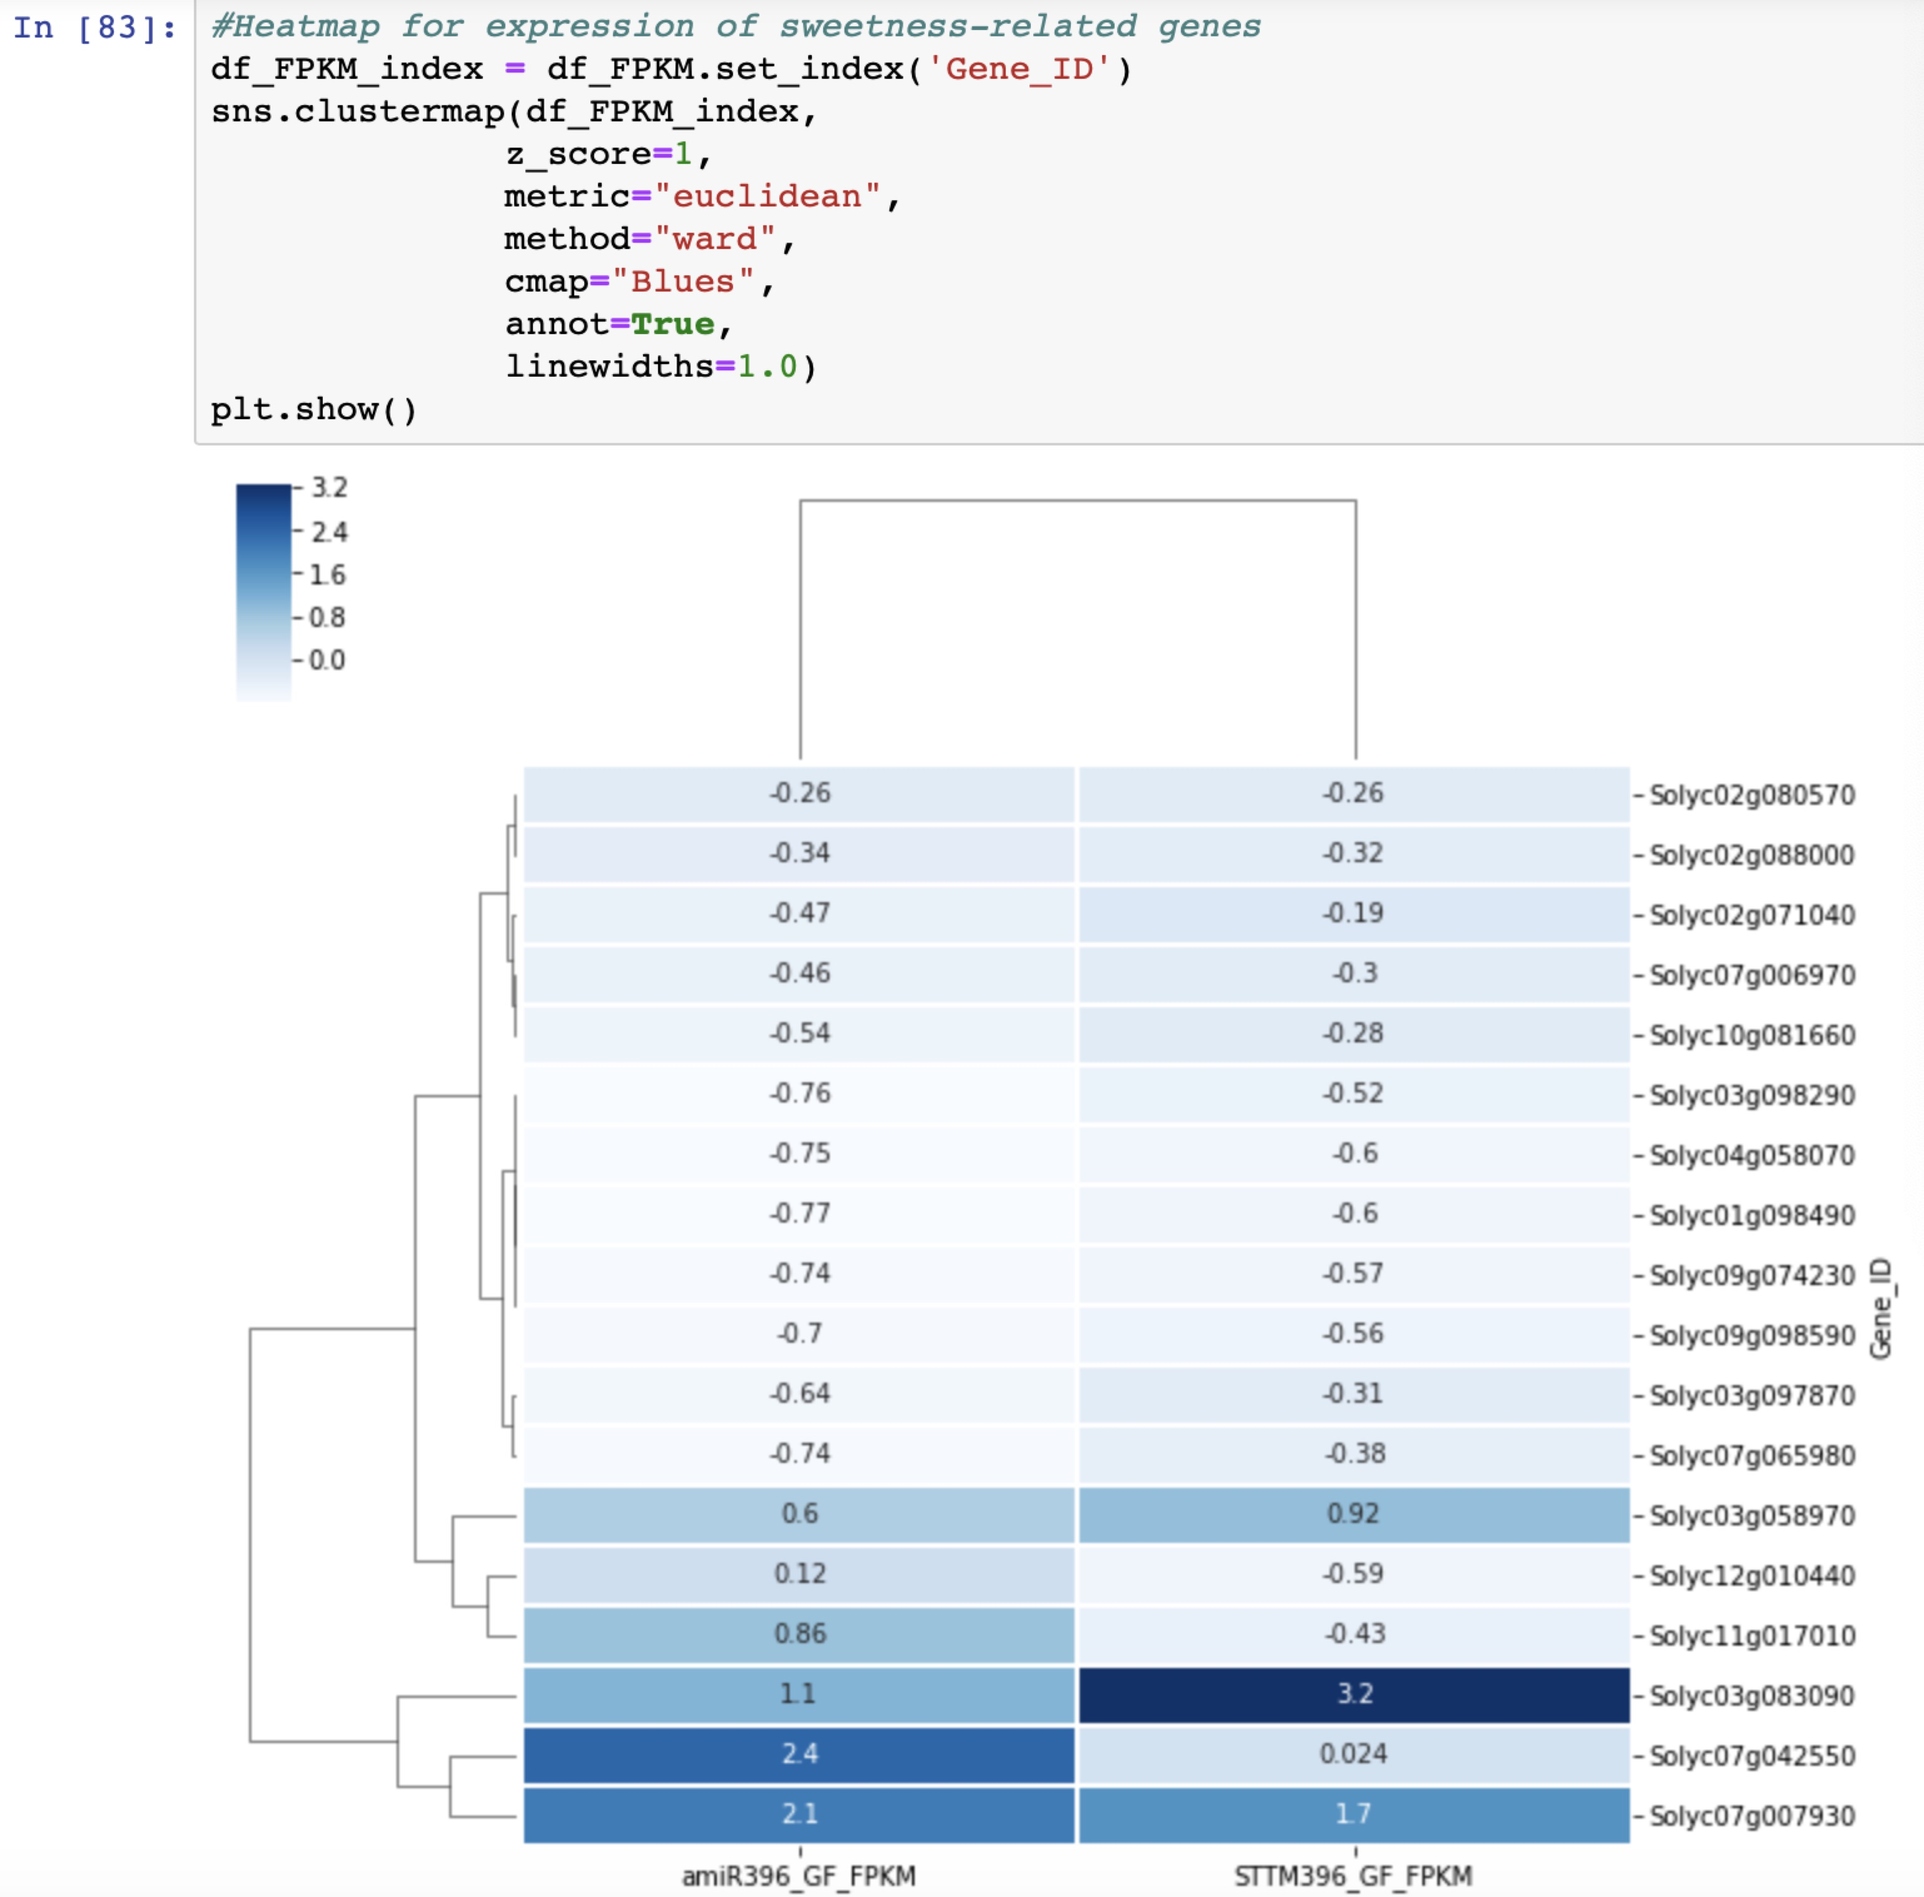
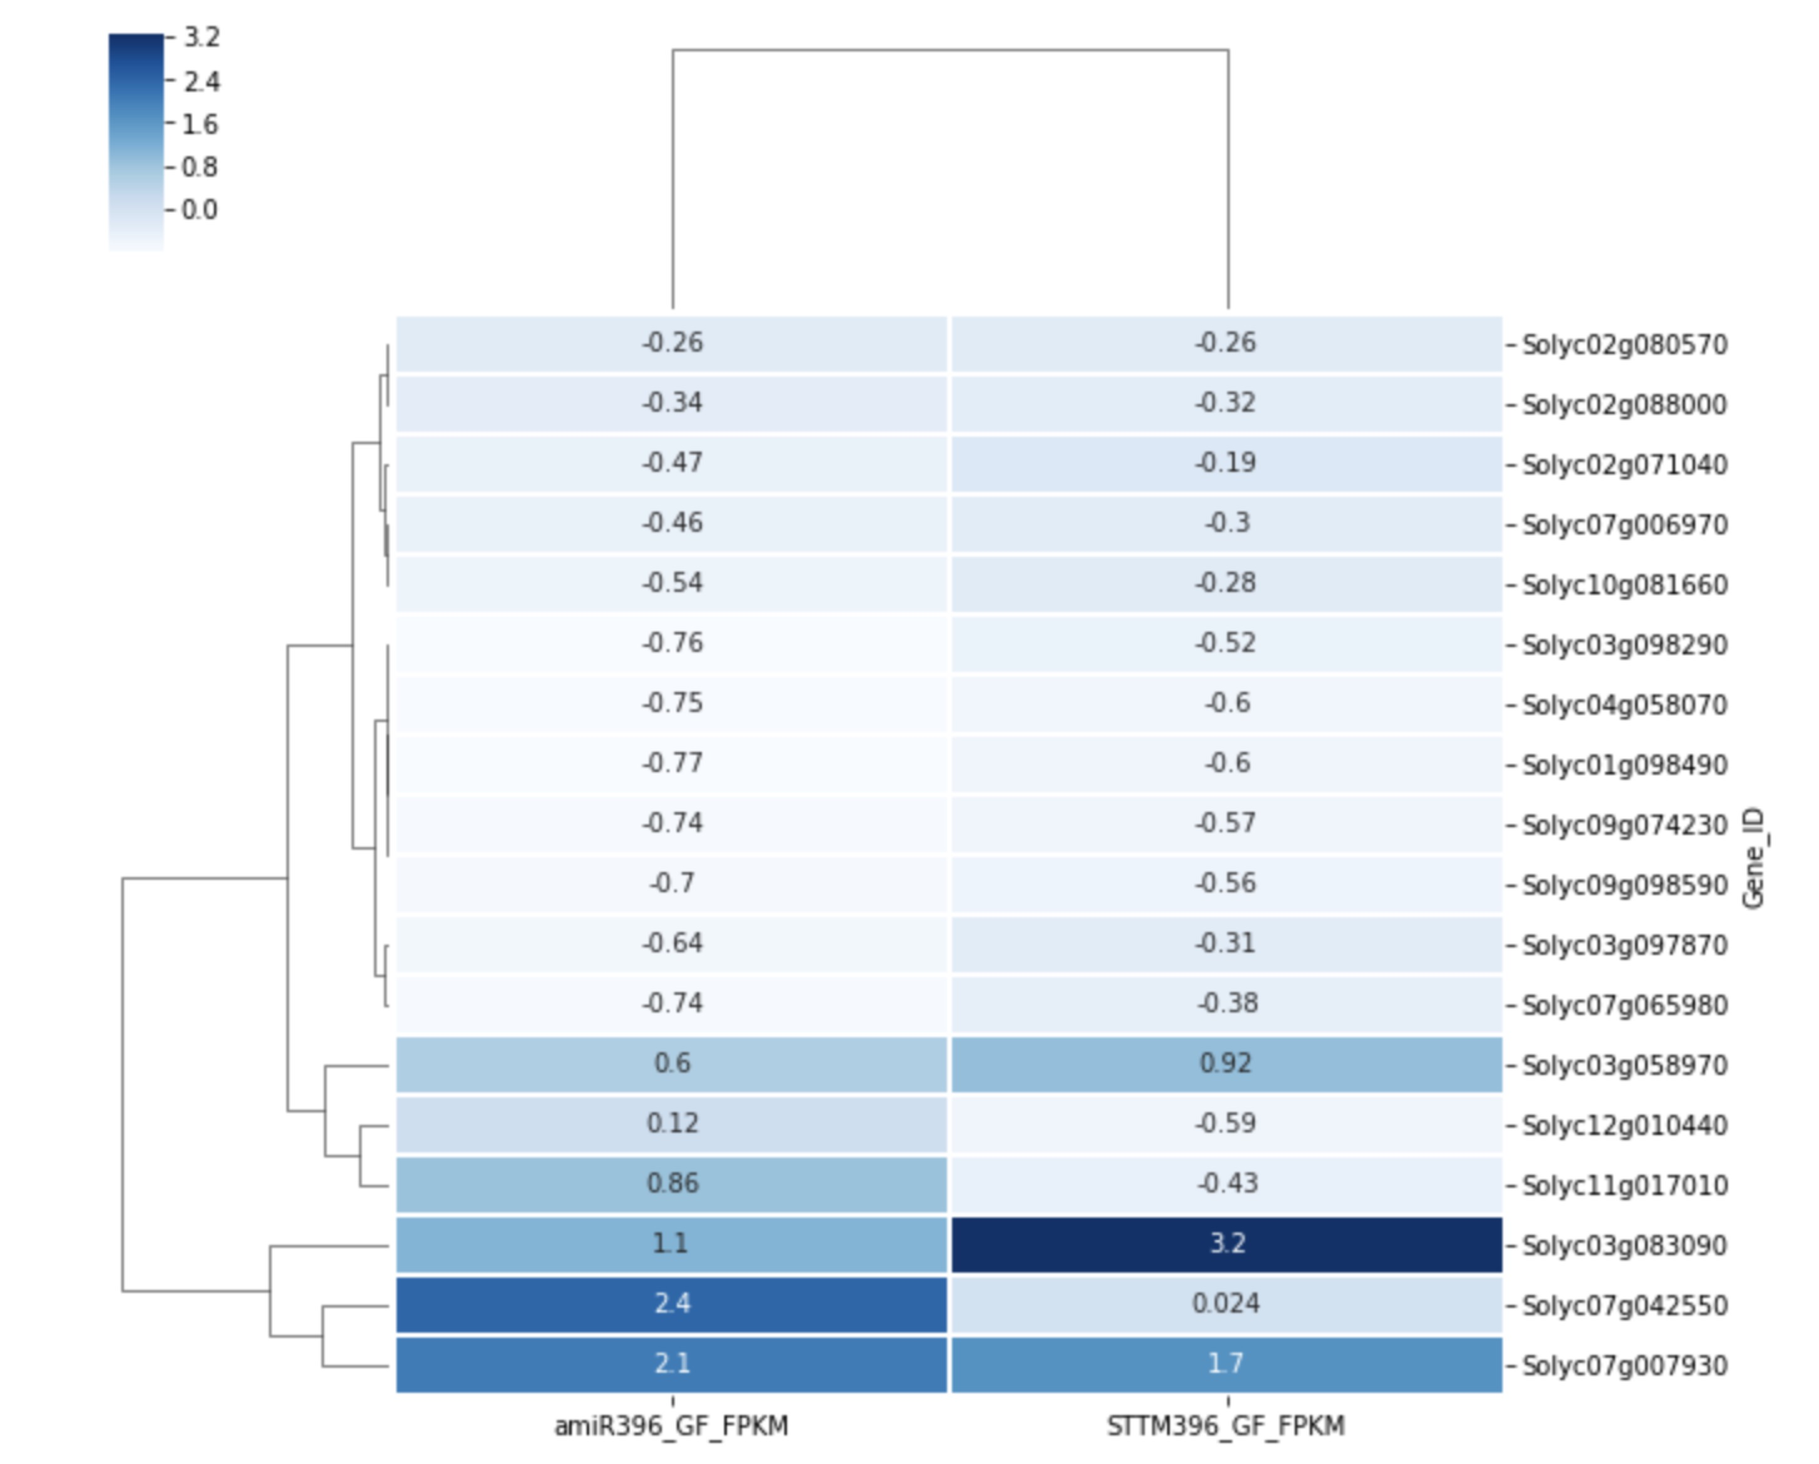
Presentation

diff --git a/pandoc.py b/pandoc.py
@@ -7,28 +7,28 @@ def write_file(filename, contents):
 
 
 # With an input file: pypandoc will infer the input format from the filename
-output = pypandoc.convert_file('2018-09-27/about.md', to='rst')
-write_file('2018-09-27/about.rst', output)
+output = pypandoc.convert_file('Presentation_for_BioF309.md'', to='rst')
+write_file('Presentation_for_BioF309.rst'', output)
 
 # You can make a slidy HTML slide deck
 slides_HP = pypandoc.convert_file('Presentation_for_BioF309.md', to='slidy', extra_args=['-s'])
 
 # And specify style with a css file, e.g. https://github.com/alblaine/countess
-slides = pypandoc.convert_file('2018-09-27/slides.md', to='slidy', extra_args=['-s', '--css=style.css'])
+slides_HP = pypandoc.convert_file('Presentation_for_BioF309.md', to='slidy', extra_args=['-s', '--css=style.css'])
 
 # Another option is to make a dzslides HTML slide deck
-slides = pypandoc.convert_file('2018-09-27/slides.md', to='dzslides', extra_args=['-s'])
+slides_HP = pypandoc.convert_file('Presentation_for_BioF309.md', to='dzslides', extra_args=['-s'])
 
 # And now with a css style: https://gist.github.com/bjin/2264634
-slides = pypandoc.convert_file('2018-09-27/slides.md', to='dzslides', extra_args=['-s', '--css=slide.css'])
+slides_HP = pypandoc.convert_file('Presentation_for_BioF309.md', to='dzslides', extra_args=['-s', '--css=slide.css'])
 
 # You can also make a revealjs HTML slide deck
-slides = pypandoc.convert_file('2018-09-27/slides.md', to='revealjs', extra_args=['-s', '-V', 'revealjs-url=http://lab.hakim.se/reveal-js'])
+slides_HP = pypandoc.convert_file('Presentation_for_BioF309.md', to='revealjs', extra_args=['-s', '-V', 'revealjs-url=http://lab.hakim.se/reveal-js'])
 
 # Try the sky revealjs theme
-slides = pypandoc.convert_file('2018-09-27/slides.md', to='revealjs', extra_args=['-s', '-V', 'revealjs-url=http://lab.hakim.se/reveal-js', '-V', 'theme=sky'])
+slides_HP = pypandoc.convert_file('Presentation_for_BioF309.md', to='revealjs', extra_args=['-s', '-V', 'revealjs-url=http://lab.hakim.se/reveal-js', '-V', 'theme=sky'])
 
 # Try the moon revealjs theme
-slides = pypandoc.convert_file('2018-09-27/slides.md', to='revealjs', extra_args=['-s', '-V', 'revealjs-url=http://lab.hakim.se/reveal-js', '-V', 'theme=moon'])
+slides_HP = pypandoc.convert_file('Presentation_for_BioF309.md', to='revealjs', extra_args=['-s', '-V', 'revealjs-url=http://lab.hakim.se/reveal-js', '-V', 'theme=moon'])
 
-write_file('slides_HP.html', slides_HP)
+write_file('Presentation_HP.html', slides_HP)

diff --git a/Presentation_for_BioF309.md b/Presentation_for_BioF309.md
@@ -2,14 +2,14 @@
 
 
 
-# Extract useful data from RNA-seq results in WT and transgenic tomato fruits
+#### Extract useful data from RNA-seq results in WT and transgenic tomato fruits
 
               
               
-              Haiping Liu Ph.D
+                             Haiping Liu Ph.D
 
 
-## Introduction
+#### Introduction
 - Material
 
 RNA-seq results from amiR396 (miR396 overexpressed) and STTM396 (miR396 being silenced) tomato fruits
@@ -19,7 +19,7 @@ RNA-seq results from amiR396 (miR396 overexpressed) and STTM396 (miR396 being si
 Visualization of RNA-seq data, especially extract differentially expressed genes I am interested in.
 
 
-## Overview
+#### Overview
 
 1. Import CVS file
 2. Evaluation the quality of RNA-seq results (histogram)
@@ -27,7 +27,7 @@ Visualization of RNA-seq data, especially extract differentially expressed genes
 4. Display genes with annotation containing targeted words
 
 
-## Load the libraries and read CSV file
+#### Load the libraries and read CSV file
 
 ```
 #load the libraries
@@ -38,57 +38,77 @@ import pandas as pd
 import numpy as np
 
 #Read CVS file form local
-df = pd.read_csv('/Users/haipingliu/Desktop/BiOF309/Final_project/DEG_ anno.csv')
+df = pd.read_csv('/Users/haipingliu/Desktop/BiOF309/Final_project/
+DEG_anno.csv')
 ```
 
-##Display how many genes are differentially expressed
+#### Display how many genes are differentially expressed
 
 <img src="image\gene_N_columns.png" width="1200">
 
-## Display how many genes have fold change above 2
+#### Display how many genes have fold change above 2
+<img src="image\N_Fold2.png" width="1000">
+<img src="image\Head_Fold2.png" width="600">
 
-<img src="image\N_Fold2.png" width="1200">
-<img src="image\Head_Fold2.png" width="1200">
-
-##Display up-regulated genes in STTM396 fruits
+#### Display up-regulated genes in STTM396 fruits
 
 <img src="image\OE_N.png" width="1200">
 <img src="image\OE_head.png" width="1200">
 
-##Display down-regulated genes in STTM396 fruits
+#### Display down-regulated genes in STTM396 fruits
 <img src="image\D_N.png" width="1200">
 <img src="image\D_head.png" width="1200">
 
-##RNA-seq result follows standard normal distribution (histogram)
+#### RNA-seq result follows standard normal distribution (histogram)
+<img src="image\his_distribution.png" width="700">
 
-<img src="image\his_distribution.png" width="1200">
+#### Extract interested genes related with sweetness of fruits
+- Sugar
+<img src="image\Sugar.png" width="1300">
 
-##Extract interested genes related with sweetness of fruits
+#### Starch
+<img src="image\Starch.png" width="1300">
 
-<img src="image\Sugar.png" width="1200">
-<img src="image\Starch.png" width="1200">
+#### Sucrose
 <img src="image\Sucrose.png" width="1200">
 
-##Cobine all the genes related with sweetness
+#### Cobine all the genes related with sweetness
 
 <img src="image\combine_code.png" width="1200">
-<img src="image\combined_genes.png" width="1200">
+<img src="image\combined_genes.png" width="800">
 
-##Write a CSV file from DataFrame
+#### Write a CSV file from DataFrame
 
-```Sugar_gene.to_csv('Sugar_gene.csv')```
+```
+Sugar_gene.to_csv('Sugar_gene.csv')
+```
 
 <img src="image\sugar_genes_CVS.png" width="1200">
 
-##Get targeted columns (FPKM values for two samples) from "Sugar_gene"
+#### Get targeted columns (FPKM values for two samples) from "Sugar_gene"
 
 <img src="image\FPKM.png" width="1200">
 
-##Heatmap for expression of sweetness-related genes
+#### Heatmap for expression of sweetness-related genes
 
-<img src="image\Heatmap.png" width="1200">
+```
+Heatmap for expression of sweetness-related genes (codes)
 
-##Conclusion
+df_FPKM_index = df_FPKM.set_index('Gene_ID')
+sns.clustermap(df_FPKM_index,
+              z_score=1,
+              metric="euclidean",
+              method="ward",
+              cmap="Blues",
+              annot=True,
+              linewidths=1.0)
+plt.show()
+```
+
+#### Output for heatmap
+<img src="image\Heatmap.png" width="700">
+
+#### Conclusion
 
 1. RNA-seq result is fine
 2. 18 genes related with fruit sweetness are differentially expressed between amiR396 and STTM396 transgenic fruits.
